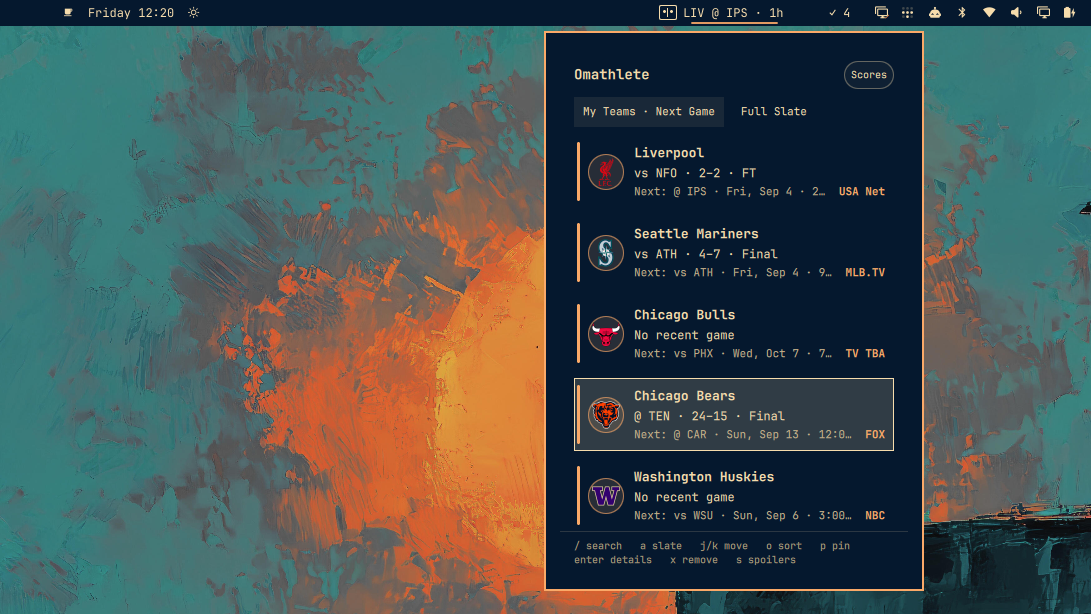
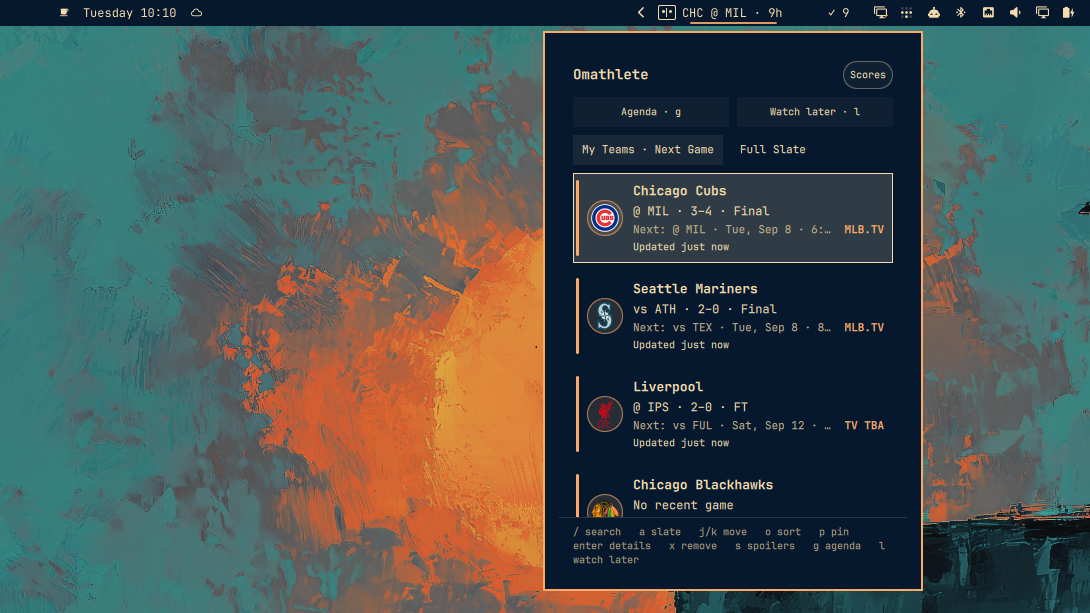
chore: prepare 0.1.2 release metadata and preview

diff --git a/RELEASE.md b/RELEASE.md
@@ -23,10 +23,11 @@ no matching private-key or common access-token patterns. This is not an audit.
 - [ ] Remove first/middle/last Watch Later entries; selection remains visible and results stay protected.
 - [ ] Verify reminder Off / 15m before / At start, quiet hours, and no duplicate notification after reload.
 - [ ] Confirm compact horizontal spacing and a usable vertical stale indicator.
-- [ ] Capture updated `preview.png` and an Agenda screenshot with no private desktop content.
+- [x] Capture updated `preview.png` with no private desktop content (user supplied, 2026-09-08).
+- [ ] Capture an additional Agenda screenshot (optional promotional material).
 - [ ] Record a short keyboard-only demonstration; include spoiler mode and reminders.
 
-The existing preview remains in place until a reviewed replacement is available.
+The updated preview shows the current home view and compact horizontal bar.
 Do not publish a whole-desktop capture containing unrelated applications.
 
 ## Promotion

diff --git a/CHANGELOG.md b/CHANGELOG.md
@@ -1,6 +1,6 @@
 # Changelog
 
-## 0.1.2 — Unreleased
+## 0.1.2
 
 - Local-date Agenda, persistent Watch Later, and opt-in game reminders with quiet hours.
 - Keyboard-accessible planner controls, shortcut help, wrapped labels, and stable selection after queue removals.
